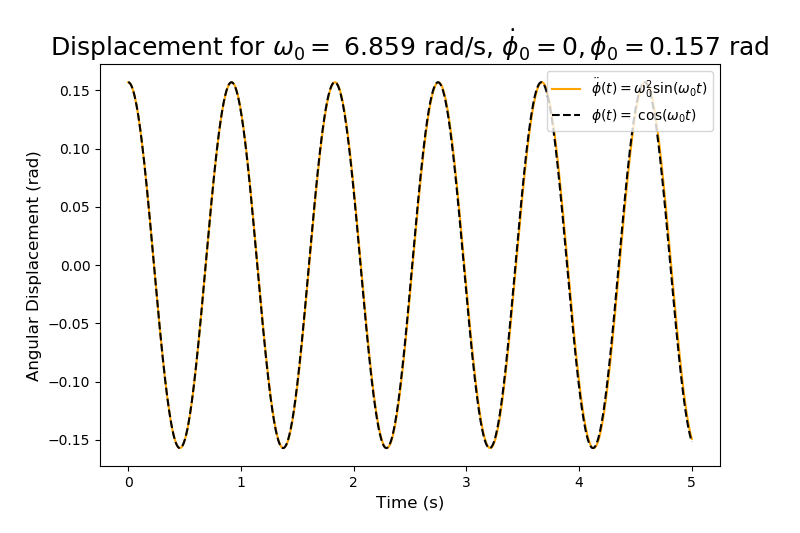
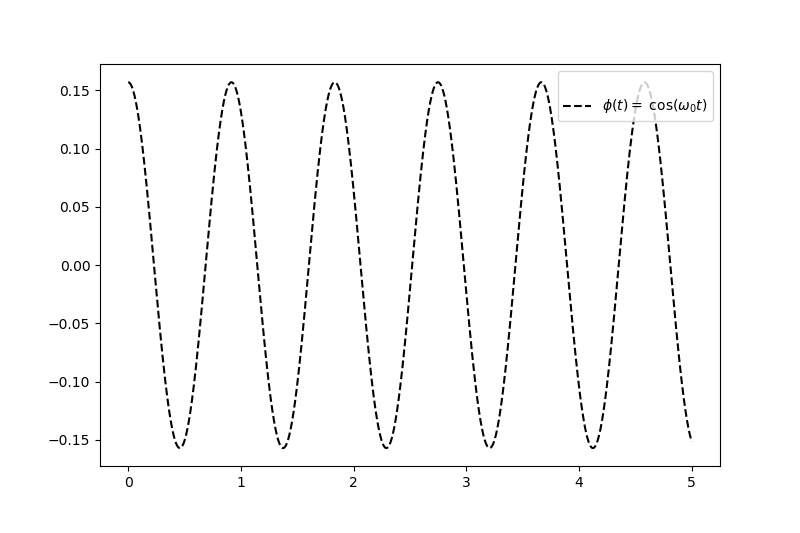
almost done, need to add words to poster

diff --git a/Pendulum Code/Section3-2.py b/Pendulum Code/Section3-2.py
@@ -40,7 +40,7 @@ parameters['delta'] = 0.
 T = (2*np.pi)/parameters['omega_0']
 
 step = 0.001
-lim = 30
+lim = 50
 num = int(lim/step)
 
 times = np.linspace(0, lim, num + 1)
@@ -69,30 +69,31 @@ fig1, axs1 = plt.subplots(2,1)
 
 
 parameters['kappa'] = 2*parameters['omega_0']*0.013
+print(parameters['kappa'])
 parameters['omega_d'] = parameters['omega_0']*2#0.56
-parameters['eta'] = 71.123#71.17
+parameters['eta'] = 70.4#71.17
 y1 = RK4(pendulum, y_0, times, parameters)
 
 parameters['kappa'] = 2*parameters['omega_0']*0.013
 parameters['omega_d'] = parameters['omega_0']*2#0.56
-parameters['eta'] = 71.124#71.18
+parameters['eta'] = 70.45#71.18
 y2 = RK4(pendulum, y_0, times, parameters)
 
 parameters['kappa'] = 2*parameters['omega_0']*0.013
 parameters['omega_d'] = parameters['omega_0']*2#0.56
-parameters['eta'] = 71.125#71.19
+parameters['eta'] = 70.5#71.19
 y3 = RK4(pendulum, y_0, times, parameters)
 
-etas = [71.123, 71.124, 71.125]
+etas = [70.40, 70.45, 70.50]
 
-axs1[0].plot(times, y1[:,0], '-', color='crimson', label=r'$\eta = $ {}'.format(etas[0]))
+axs1[0].plot(times, y1[:,0], '-', color='salmon', label=r'$\eta = $ {}'.format(etas[0]))
 axs1[0].plot(times, y2[:,0], '-', color='royalblue', label=r'$\eta = $ {}'.format(etas[1]))
-axs1[0].plot(times, y3[:,0], '-', color='darkgreen', label=r'$\eta = $ {}'.format(etas[2]))
+axs1[0].plot(times, y3[:,0], '-', color='darkslategrey', label=r'$\eta = $ {}'.format(etas[2]))
 
-axs1[0].set_xlabel('Time (s)')
-axs1[0].set_ylabel('Angular Displacement (rad)')
-fig1.suptitle(r'Butterfly Effects for Driving Force $\eta$')
-axs1[0].legend(loc=3)
+axs1[0].set_xlabel('Time (s)', fontsize=12)
+axs1[0].set_ylabel('Angular Displacement (rad)', fontsize=12)
+fig1.suptitle(r'Limit Cycles and Butterfly Effects for Driving Force $\eta$', fontsize=18)
+axs1[0].legend(loc=2)
 #fig1.set_size_inches(12, 8)
 #fig1.savefig('butterflyeffect.png', dpi=100)
 #plt.show()
@@ -101,19 +102,21 @@ axs1[0].legend(loc=3)
 
 #fig2, axs2 = plt.subplots()#1,3, sharey=True)
 
-axs1[1].plot(y1[:,0], y1[:,1], '-', color='crimson', label=r'$\eta = $ {}'.format(etas[0]))
+axs1[1].plot(y1[:,0], y1[:,1], '-', color='salmon', label=r'$\eta = $ {}'.format(etas[0]))
 axs1[1].plot(y2[:,0], y2[:,1], '-', color='royalblue', label=r'$\eta = $ {}'.format(etas[1]))
-axs1[1].plot(y3[:,0], y3[:,1], '-', color='darkgreen', label=r'$\eta = $ {}'.format(etas[2]))
+axs1[1].plot(y3[:,0], y3[:,1], '-', color='darkslategrey', label=r'$\eta = $ {}'.format(etas[2]))
 
 #axs2[0].set_xlabel('Angular Displacement (rad)')
-axs1[1].set_xlabel('Angular Displacement (rad)')
+axs1[1].set_xlabel('Angular Displacement (rad)', fontsize=12)
 #axs2[2].set_xlabel('Angular Displacement (rad)')
 
-axs1[1].set_ylabel('Angular Velocity (rad/s)')
+axs1[1].set_ylabel('Angular Velocity (rad/s)',fontsize=12)
 #axs1[1].set_title(r'Butterfly Effects for Driving Force $\eta$')
-axs1[1].legend(loc=2)
-
+axs1[0].set_title('Displacement', fontsize=16)
+axs1[1].set_title('Phase Space', fontsize=16)
 #fig1.tight_layout(pad=2.2)
+fig1.tight_layout(pad=2.5)
+
 fig1.set_size_inches(12, 8)
 fig1.savefig('butterflyeffects.png', bbox_inches='tight',dpi=100)
 plt.show()

diff --git a/Pendulum Code/section1.py b/Pendulum Code/section1.py
@@ -84,19 +84,11 @@ yvals = RK4(pendulum, y_0, times, parameters)
 
 plotargs = pp.Plot_Arguments
 
-colors = ['orange', 'red', 'coral', 'maroon', 'crimson', 'blueviolet', 'darkslategrey', 'royalblue'
+colors = ['royalblue', 'crimson', 'maroon', 'coral', 'crimson', 'blueviolet', 'darkslategrey', 'royalblue'
           'darkgreen', 'crimson', 'maroon', 'greenyellow', 'coral', 'orangered', 'turquoise',
           'salmon']
 
-plotargs['xlabel'] = 'Time (s)'
-plotargs['ylabel'] = 'Angular Displacement (rad)'
-plotargs['title'] = r'Displacement for $\omega_0 = $ {} rad/s, $\dot\phi_0 = 0, \phi_0 = {}$ rad'.format(str(round(parameters['omega_0'], 3)), str(round(phi_in, 3)))
-plotargs['loc'] = 4
-plotargs['lineshape'] = '-'
-plotargs['color'] = colors[0]
-plotargs['graph label'] = r'$\ddot\phi(t) = \omega_0^2$sin$(\omega_0 t)$'
-plotargs['titlesize'] = 18
-plotargs['labelsize'] = 12
+
 
 
 pp.displacementplot(times, yvals, plotargs)
@@ -124,6 +116,18 @@ plotargs['ylabel'] = 'Angular Displacement (rad)'
 plotargs['lineshape'] = '-'
 plotargs['loc'] = 1
 
+fig, axs = plt.subplots(1,3)
+
+
+axs[0].plot(times, yvals[:,0], '-', color='salmon', label=r'$\ddot\phi(t) = \omega_0^2$sin$(\omega_0 t)$')
+axs[0].plot(times, smol, '--', c='k', label=r'$\phi(t) = \phi_0$ cos$(\omega_0 t)$')
+axs[0].legend(loc=1)
+axs[0].set_title(r'Displacement for Small Initial Angle $\phi_0 = \pi/20$', fontsize=16)
+axs[0].set_xlabel('Time (s)', fontsize=12)
+axs[0].set_ylabel('Angular Displacement (rad)', fontsize=12)
+
+axs[2].plot(yvals[:,0], yvals[:,1], '-', color='salmon', label=r'$\chi=0$')
+
 for i in range(len(alphavals)):
     parameters['alpha'] = alphavals[i]
     parameters['kappa'] = parameters['alpha']*(2*parameters['omega_0'])
@@ -131,9 +135,26 @@ for i in range(len(alphavals)):
     plotargs['color'] = colors[i+1]
     plotargs['graph label'] = r'$\chi =$ '+ chi 
     yvals = RK4(pendulum, y_0, times, parameters)
+    axs[1].plot(times, yvals[:,0], '-', color = colors[i], label=r'$\chi = $' + chi)
+    axs[2].plot(yvals[:,0], yvals[:,1], '-', color = colors[i], label=r'$\chi = $' + chi)
     
-    pp.displacementplot(times, yvals, plotargs)
+axs[1].legend(loc=1)
+axs[2].legend(loc=1)
+axs[1].set_title(r'Displacement for Different Damping Coefficients $\chi$', fontsize=16)
+axs[1].set_xlabel('Time (s)', fontsize=12)
+axs[1].set_ylabel('Angular Displacement (rad)', fontsize=12)
+axs[2].set_title(r'Phase Space for Different Damping Coefficients $\chi$', fontsize=16)
+axs[2].set_xlabel('Angular Displacement (rad)', fontsize=12)
+axs[2].set_ylabel('Angular Velocity (rad/s)', fontsize=12)
 
+fig.set_size_inches(25, 6)
+fig.savefig('section1.png', bbox_inches='tight', dpi=100)
+plt.show()
+
+
+
+
+'''
 plt.rcParams["figure.figsize"] = (8,5.33)
 plt.savefig('damped_oscillator.png', dpi=100)
 plt.show() 
@@ -163,7 +184,7 @@ for i in range(len(alphavals)):
 
 plt.savefig('sect1_phasespace.png', dpi=100)
 plt.show()
-
+'''
 
 
 

diff --git a/Pendulum Code/section3-1.py b/Pendulum Code/section3-1.py
@@ -32,14 +32,14 @@ parameters['M'] = m_1 + m_2
 parameters['omega_0'] = np.sqrt((parameters['M']*g*L_cm)/I)
 parameters['omega_d'] = parameters['omega_0']*2#0.56
 parameters['kappa'] = 2*parameters['omega_0']*0.013
-parameters['eta'] = 25
+parameters['eta'] = 84.5
 parameters['delta'] = 0.
 
 
 T = (2*np.pi)/parameters['omega_0']
 
 step = 0.001
-lim = 50
+lim = 100
 num = int(lim/step)
 
 times = np.linspace(0, lim, num + 1)
@@ -72,7 +72,7 @@ plotargs['labelsize'] = 12
 
 ### convergent limit cycle
 
-y_1 = [-2.4, 1.3]
+y_1 = [2.4, -1.3]
 y_2 = [1.9, -1.3]
 
 y1 = RK4(pendulumTorque, y_1, times, parameters)
@@ -85,25 +85,26 @@ fig, axes = plt.subplots(2, 1)
 #eta=16
 #delta=0
 
-axes[0].plot(times, y1[:,0], '-', color='darkslategrey', label=r'$\phi_0 = ${} rad'.format(str(y_1[0])))
-axes[0].plot(times, y2[:,0], '-', color='salmon', label=r'$\phi_0 = $ {} rad'.format(str(y_2[0])))
-axes[0].set_ylabel('Angular Displacement (rad)')
-axes[0].set_xlabel('Time (s)')
+axes[0].plot(times, y1[:,0], '-', color='salmon', label=r'$\eta = ${}')
+#axes[0].plot(times, y2[:,0], '-', color='salmon', label=r'$\phi_0 = $ {} rad'.format(str(y_2[0])))
+axes[0].set_ylabel('Angular Displacement (rad)', fontsize=12)
+axes[0].set_xlabel('Time (s)', fontsize=12)
+axes[0].set_title('Displacement', fontsize=16)
 
-axes[1].plot(y1[:,0], y1[:,1], '-', color='darkslategrey', label=r'$\phi_0 = ${} rad'.format(str(y_1[0])))
-axes[1].plot(y2[:,0], y2[:,1], '-', color='salmon', label=r'$\phi_0 = $ {} rad'.format(str(y_2[0])))
-axes[1].set_ylabel('Angular Velocity (rad/s)')
-axes[1].set_xlabel('Angular Displacement (rad)')
+axes[1].plot(y1[:,0], y1[:,1], '-', color='salmon')
+#axes[1].plot(y2[:,0], y2[:,1], '-', color='salmon', label=r'$\phi_0 = $ {} rad'.format(str(y_2[0])))
+axes[1].set_ylabel('Angular Velocity (rad/s)',fontsize=12)
+axes[1].set_xlabel('Angular Displacement (rad)',fontsize=12)
+axes[1].set_title('Phase Space', fontsize=16)
 
 
-#fig.tight_layout(pad=2.2)
-axes[1].legend(loc=3)
+fig.tight_layout(pad=2.5)
 
-fig.suptitle(r'Convergent Limit Cycle for Different $\phi_0$, $|\dot\phi_0|$ = 1.3')
+fig.suptitle(r'Non-Periodic Behavior for $\eta = {}$'.format(str(parameters['eta'])), fontsize=18)
 fig.set_size_inches(12, 8)
 
 
-fig.savefig('convergent_limit_cycle.png', bbox_inches='tight', dpi=100)
+fig.savefig('nonperiodicbehavior.png', bbox_inches='tight', dpi=100)
 
 plt.show()
 

diff --git a/Pendulum Code/Section2disp.py b/Pendulum Code/Section2disp.py
@@ -63,7 +63,7 @@ y_0 = np.array([phi_in, vel_in])
 yvals = RK4(pendulum, y_0, times, parameters)
 
 plotargs = pp.Plot_Arguments
-colors = ['orange', 'red', 'coral', 'crimson', 'magenta', 'crimson', 'blueviolet', 'darkslategrey', 'royalblue'
+colors = ['salmon', 'crimson', 'maroon', 'royalblue', 'magenta', 'crimson', 'blueviolet', 'darkslategrey', 'royalblue'
           'darkgreen', 'crimson', 'maroon', 'greenyellow', 'coral', 'orangered', 'turquoise',
           'salmon']
 
@@ -107,18 +107,17 @@ xlabels = ['','0', r'$T_0$', r'$2T_0$', r'$3T_0$', r'$4T_0$',r'$5T_0$']
 axs[0].set_xticks(x, xlabels)
 axs[0].xaxis.set_major_locator(ticker.MultipleLocator(T))
 axs[0].xaxis.set_major_formatter(ticker.FixedFormatter(xlabels))
-axs[0].set_xlabel('Time (s)')
-axs[0].set_ylabel('Angular Displacement (rad)')
-axs[0].set_title(r'Displacement')
+axs[0].set_xlabel('Time (s)',fontsize=12)
+axs[0].set_ylabel('Angular Displacement (rad)', fontsize=12)
+axs[0].set_title(r'Displacement', fontsize=16)
 axs[0].legend(loc=3)
 axs[0].grid()
 
-axs[1].set_xlabel('Angular Displacement (rad)')
-axs[1].set_ylabel('Angular Velocity (rad/s)')
-axs[1].set_title('Phase Space')
+axs[1].set_xlabel('Angular Displacement (rad)', fontsize=12)
+axs[1].set_ylabel('Angular Velocity (rad/s)', fontsize=12)
+axs[1].set_title('Phase Space', fontsize=16)
 
 
-fig.suptitle(r'Varying Initial Displacement $\phi_0$ with $T_0 = {}s$'.format(str(round(T,3))))
 
 
 comparisons = 150
@@ -148,15 +147,15 @@ ytic = ['', r'$T_0$', r'$2T_0$', r'$3T_0$', r'$4T_0$']
 
 
 axs[2].plot(initials, periods, '-', color = 'darkslategrey')
-axs[2].set_title(r'Divergence of Period as $\phi_0 \to \pi$')
-axs[2].set_xlabel(r'$\phi_0$ (rad)')
-axs[2].set_ylabel('Period (s)')
+axs[2].set_title(r'Divergence of Period as $\phi_0 \to \pi$', fontsize=16)
+axs[2].set_xlabel(r'$\phi_0$ (rad)', fontsize=12)
+axs[2].set_ylabel('Period (s)', fontsize=12)
 axs[2].axvline(np.pi, color = 'k', linestyle = '--')
 
 axs[2].yaxis.set_major_locator(ticker.MultipleLocator(T))
 axs[2].yaxis.set_major_formatter(ticker.FixedFormatter(ytic))
 
-fig.set_size_inches(24, 5.33)
+fig.set_size_inches(25, 6)
 fig.savefig('section2.png', bbox_inches='tight', dpi=100)
 
 

diff --git a/Pendulum Code/bifurcation.py b/Pendulum Code/bifurcation.py
@@ -32,6 +32,7 @@ I = (1/3)*m_1*L*L + (L+r)**2*m_2
 parameters['M'] = m_1 + m_2
 parameters['omega_0'] = 11.13 #  np.sqrt((parameters['M']*g*L_cm)/I)
 parameters['kappa'] = 2*parameters['omega_0']*0.1
+print(parameters['kappa'])
 parameters['omega_d'] = parameters['omega_0']*2
 parameters['eta'] = 30
 T_drive = (2*np.pi)/parameters['omega_d']
